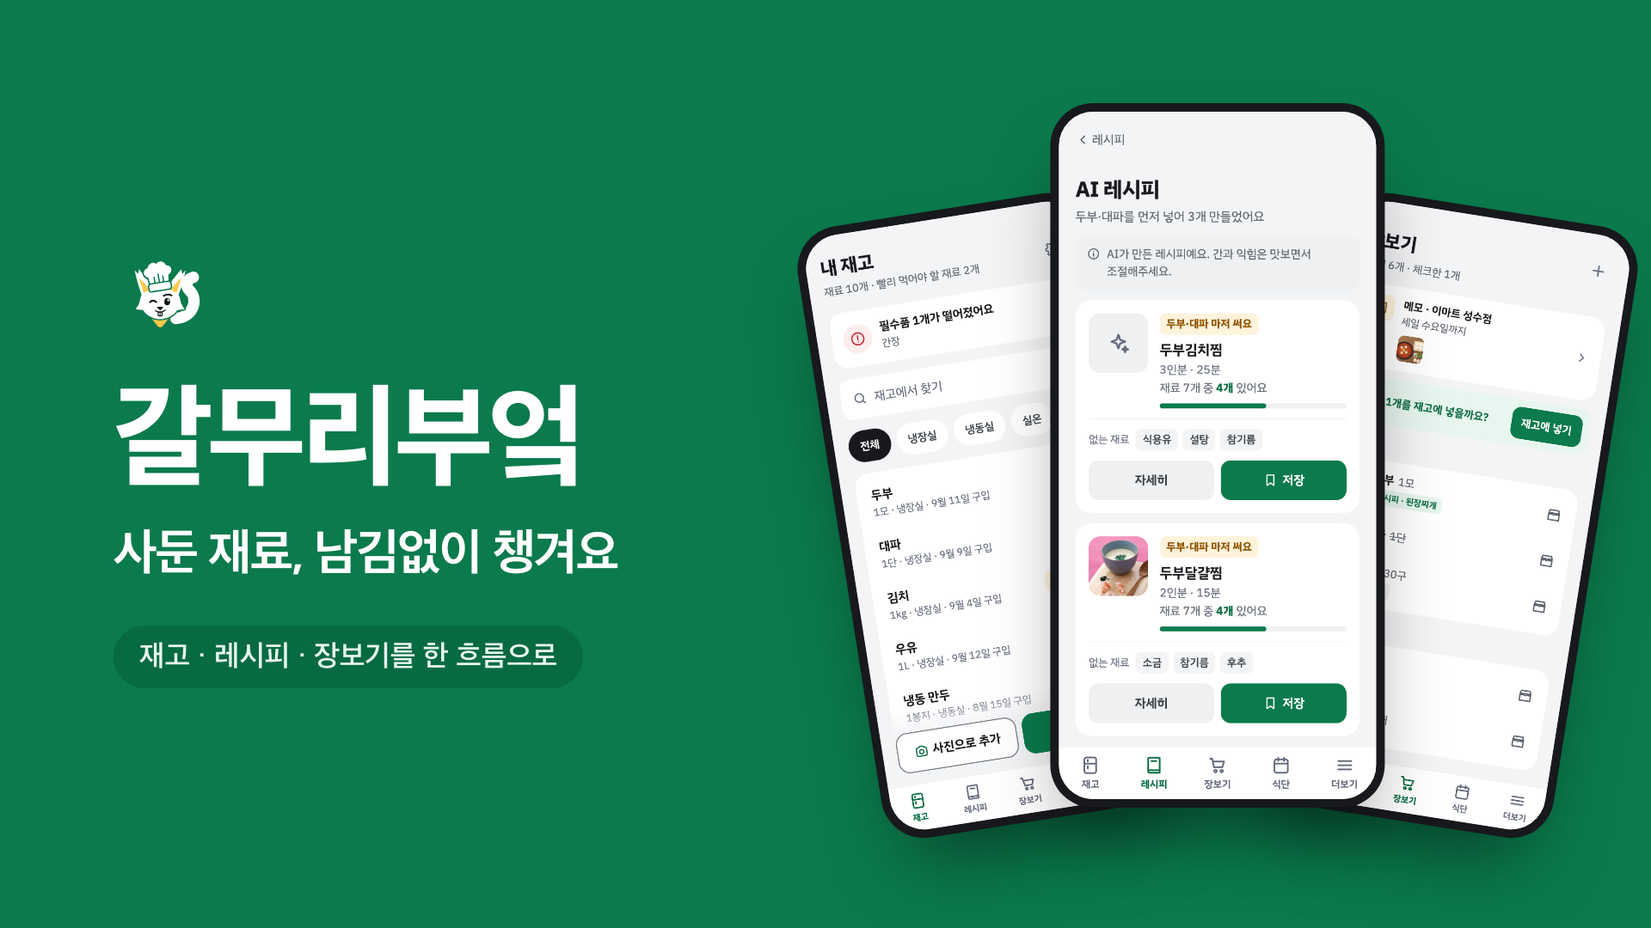
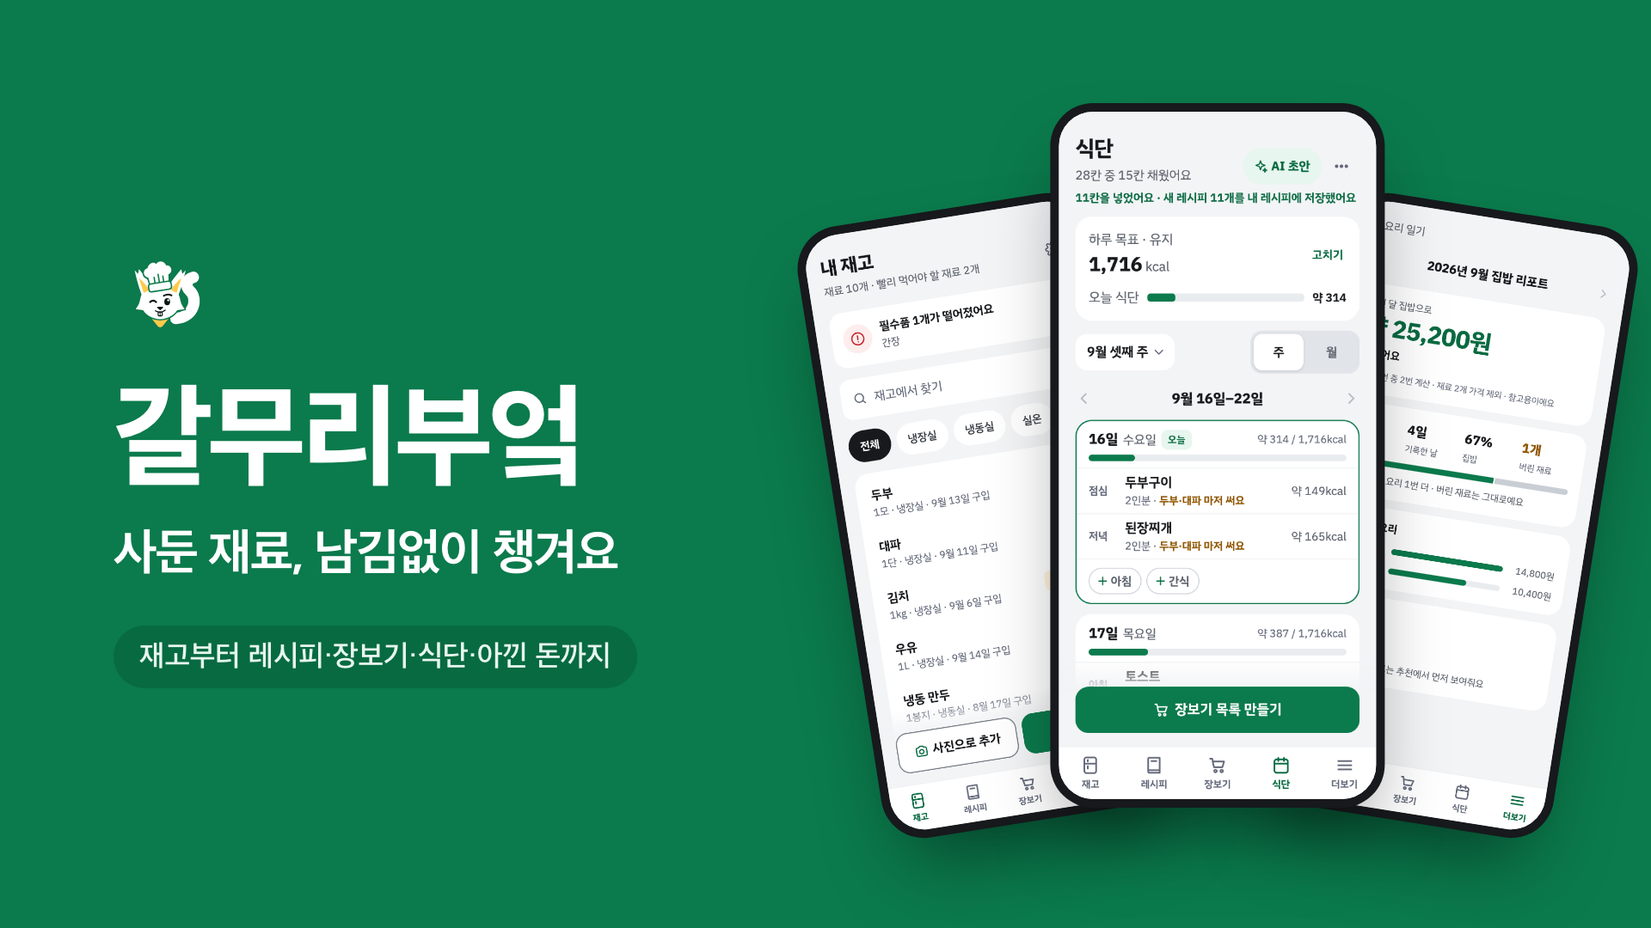
docs: 제출 폼 이미지를 대표+5장으로 다시 만들고 README·제출 문서의 스크린샷 목록 갱신
대표 이미지 문구를 `재고부터 레시피·장보기·식단·아낀 돈까지`로 바꾸고, 옛 03·04를 03-장보기로 합치고
05를 요리일기와 집밥리포트로, 04를 식단과 영양으로 바꿨다. README 표, 체크리스트 6절, 양식 답안 6절,
시연 시나리오의 스크린샷 이름을 맞췄다.

Claude-Session: https://claude.ai/code/session_01RZbUpMW9rbMSA6Pa7q1JrS

diff --git a/docs/submission/form/src/01-재고와-사진인식.html b/docs/submission/form/src/01-재고와-사진인식.html
@@ -4,11 +4,12 @@
 <span class="eyebrow">재고 관리</span>
 <h1>사진 한 장으로<br>재고 넣고,<br>곧 먹을 재료부터</h1>
 <ul class="points">
-<li><span class="n">1</span><div><b>영수증 사진이면 입력 끝</b><span>AI가 품목·수량·가격·구입일을 채워요</span></div></li>
-<li><span class="n">2</span><div><b>넣을 것만 체크해서 한 번에</b><span>틀린 건 펼쳐서 고친 뒤 재고로 옮겨요</span></div></li>
-<li><span class="n">3</span><div><b>임박한 재료가 위로</b><span>D-1, 구입 10일째처럼 먼저 먹을 걸 알려줘요</span></div></li>
+<li><span class="n">1</span><div><b>곧 먹을 재료가 맨 위로</b><span>D-1, 구입 10일째처럼 먼저 알려줘요</span></div></li>
+<li><span class="n">2</span><div><b>사진 여러 장을 한 번에 읽어요</b><span>냉장고·영수증을 같이 올리고 구입일만 골라요</span></div></li>
+<li><span class="n">3</span><div><b>예시 사진으로 바로 해봐요</b><span>로그인 없이도 영수증을 읽고 가격·날짜를 채워줘요</span></div></li>
 </ul></div>
-<div class="stage" style="gap:56px">
-<figure class="phone" style="--h:800px"><span class="n">1·2</span><div class="screen"><img class="" src="../../screenshots/03-scan-review.png" alt=""></div></figure>
-<figure class="phone" style="--h:800px"><span class="n">3</span><div class="screen"><img class="" src="../../screenshots/02-fridge.png" alt=""></div></figure>
+<div class="stage">
+<figure class="phone"><span class="n">1</span><div class="screen"><img class="" src="../../screenshots/02-fridge.png" alt=""></div></figure>
+<figure class="phone"><span class="n">2</span><div class="screen"><img class="" src="../../screenshots/03-scan-review.png" alt=""></div></figure>
+<figure class="phone"><span class="n">3</span><div class="screen"><img class="" src="../../screenshots/36-scan-sample-review.png" alt=""></div></figure>
 </div></div></body></html>

diff --git a/docs/submission/form/src/05-요리일기와-집밥리포트.html b/docs/submission/form/src/05-요리일기와-집밥리포트.html
@@ -1,0 +1,15 @@
+<!doctype html><html lang="ko"><head><meta charset="utf-8"><title>요리일기와 집밥리포트</title><link rel="stylesheet" href="slide.css"></head><body><div class="slide">
+<div class="copy">
+<div class="brand"><img src="../../../../frontend/public/mark.svg" alt="">갈무리부엌</div>
+<span class="eyebrow">요리 일기</span>
+<h1>요리할 때마다<br>아낀 돈이 쌓여요</h1>
+<ul class="points">
+<li><span class="n">1</span><div><b>요리했어요 한 번이면 재고에서 빼요</b><span>쓴 만큼 빼고, 잘못 눌렀으면 되돌려요</span></div></li>
+<li><span class="n">2</span><div><b>사 먹을 때보다 얼마 아꼈는지</b><span>재료비를 빼고 요리마다 계산해줘요</span></div></li>
+<li><span class="n">3</span><div><b>한 달 집밥 리포트</b><span>아낀 돈·요리 횟수·버린 재료를 모아 보여줘요</span></div></li>
+</ul></div>
+<div class="stage">
+<figure class="phone"><span class="n">1</span><div class="screen"><img class="" src="../../screenshots/29-cook-toast.png" alt=""><i class="ring" style="left:3%;top:79.8%;width:94%;height:11.2%"></i></div></figure>
+<figure class="phone"><span class="n">2</span><div class="screen"><img class="" src="../../screenshots/31-cook-diary-detail.png" alt=""></div></figure>
+<figure class="phone"><span class="n">3</span><div class="screen"><img class="" src="../../screenshots/32-cook-report.png" alt=""></div></figure>
+</div></div></body></html>

diff --git a/docs/submission/form/src/03-장보기.html b/docs/submission/form/src/03-장보기.html
@@ -1,0 +1,15 @@
+<!doctype html><html lang="ko"><head><meta charset="utf-8"><title>장보기</title><link rel="stylesheet" href="slide.css"></head><body><div class="slide">
+<div class="copy">
+<div class="brand"><img src="../../../../frontend/public/mark.svg" alt="">갈무리부엌</div>
+<span class="eyebrow">장보기</span>
+<h1>손메모는 사진으로,<br>마트 지하에서도 체크</h1>
+<ul class="points">
+<li><span class="n">1</span><div><b>살 것이 날짜별로 모여요</b><span>연결이 끊겨도 체크는 그대로 돼요</span></div></li>
+<li><span class="n">2</span><div><b>손메모 사진에서 살 것만 골라요</b><span>이미 목록에 있는 건 알려줘요</span></div></li>
+<li><span class="n">3</span><div><b>쇼핑몰 7곳에서 바로 찾아요</b><span>쿠팡·네이버 쇼핑·컬리 검색 결과로 가요</span></div></li>
+</ul></div>
+<div class="stage">
+<figure class="phone"><span class="n">1</span><div class="screen"><img class="" src="../../screenshots/15-offline-banner.png" alt=""><i class="ring" style="left:3.5%;top:12.4%;width:93%;height:6.4%"></i></div></figure>
+<figure class="phone"><span class="n">2</span><div class="screen"><img class="" src="../../screenshots/14-memo-scan-review.png" alt=""></div></figure>
+<figure class="phone"><span class="n">3</span><div class="screen"><img class="" src="../../screenshots/11-store-sheet.png" alt=""></div></figure>
+</div></div></body></html>

diff --git a/docs/submission/form/src/04-식단과-영양.html b/docs/submission/form/src/04-식단과-영양.html
@@ -1,0 +1,15 @@
+<!doctype html><html lang="ko"><head><meta charset="utf-8"><title>식단과 영양</title><link rel="stylesheet" href="slide.css"></head><body><div class="slide">
+<div class="copy">
+<div class="brand"><img src="../../../../frontend/public/mark.svg" alt="">갈무리부엌</div>
+<span class="eyebrow">식단·영양</span>
+<h1>한 주 식단 짜고,<br>칼로리까지 한눈에</h1>
+<ul class="points">
+<li><span class="n">1</span><div><b>하루 목표와 식단 칼로리를 같이</b><span>키·몸무게로 목표를 정하고 날마다 비교해요</span></div></li>
+<li><span class="n">2</span><div><b>AI가 빈 칸에 요리를 채워요</b><span>곧 먹을 재료부터 쓰고 1인분 kcal도 보여줘요</span></div></li>
+<li><span class="n">3</span><div><b>먹은 끼니는 달력에 남겨요</b><span>하루 kcal과 요리한 날을 한 달로 봐요</span></div></li>
+</ul></div>
+<div class="stage">
+<figure class="phone"><span class="n">1</span><div class="screen"><img class="" src="../../screenshots/21-meals-week.png" alt=""></div></figure>
+<figure class="phone"><span class="n">2</span><div class="screen"><img class="" src="../../screenshots/23-meal-ai-draft.png" alt=""></div></figure>
+<figure class="phone"><span class="n">3</span><div class="screen"><img class="" src="../../screenshots/33-food-log-calendar.png" alt=""></div></figure>
+</div></div></body></html>

diff --git a/docs/submission/form/src/00-대표이미지.html b/docs/submission/form/src/00-대표이미지.html
@@ -18,11 +18,11 @@
   <img class="logo" src="../../../../frontend/public/mark.svg" alt="">
   <div class="name">갈무리부엌</div>
   <div class="tag">사둔 재료, 남김없이 챙겨요</div>
-  <div class="flow">재고 · 레시피 · 장보기를 한 흐름으로</div>
+  <div class="flow">재고부터 레시피·장보기·식단·아낀 돈까지</div>
 </div>
 <div class="fan">
   <figure class="phone p1"><div class="screen"><img src="../../screenshots/02-fridge.png" alt=""></div></figure>
-  <figure class="phone p3"><div class="screen"><img src="../../screenshots/10-shopping-list.png" alt=""></div></figure>
-  <figure class="phone p2"><div class="screen"><img src="../../screenshots/05-ai-recipes.png" alt=""></div></figure>
+  <figure class="phone p3"><div class="screen"><img src="../../screenshots/32-cook-report.png" alt=""></div></figure>
+  <figure class="phone p2"><div class="screen"><img src="../../screenshots/21-meals-week.png" alt=""></div></figure>
 </div>
 </div></body></html>

diff --git a/docs/submission/04-제출-체크리스트.md b/docs/submission/04-제출-체크리스트.md
@@ -96,8 +96,8 @@ push 뒤 배포 주소에서 합니다. 0절 1번에서 이미 본 항목은 건
 |---|---|---|---|---|
 | [x] | 제품 페이지·케이스 스터디·제출 문서 01~05를 `f11ed6d` 기준으로 고치기 | Claude | 9/15 | `docs/site/`, `docs/submission/` |
 | [x] | 제품 페이지·01·04·05·README를 `b560ed4` 기준으로 다시 고치기(영양·먹은 기록 반영, 수익 구조 추가) | Claude | 9/15 | `docs/voting-readiness`. 케이스 스터디·02·03은 이번에 손대지 않았습니다. |
-| [ ] | 새 스크린샷 찍기(아래 목록) | 사용자 | 9/17 | push 뒤 체험 계정으로. 기존과 같은 1152×2496 |
-| [ ] | 스크린샷 교체, README 표, `form/` 16:9 이미지 다시 만들기 | Claude | 9/17 | 받은 파일은 같은 이름으로 바꾸고, 새 파일은 README 식단 절에 표로 넣습니다. |
+| [x] | 새 스크린샷 찍기(아래 목록) | Claude | 9/16 | 운영 주소 체험 계정으로. 기존과 같은 1152×2496(PC 컷만 2560×1600) |
+| [x] | 스크린샷 교체, README 표, `form/` 16:9 이미지 다시 만들기 | Claude | 9/16 | 바뀐 파일은 같은 이름으로 바꾸고, 새 파일은 README 재고·레시피·식단·다크·체험 방법 절에 표로 넣었습니다. |
 | [ ] | 시연 사진 준비: 영수증 1장, 냉장고 사진 1장, 손메모 1장 | 사용자 | 9/17 | [시연 시나리오](02-시연-시나리오.md) 준비물 |
 | [ ] | 3분 데모 리허설 2번(시간 재기) | 사용자 | 9/17 | 체험 계정은 같은 IP에서 1시간 30개 |
 | [ ] | 1분 소개 영상 녹화·자막 | 사용자 | 9/17 | [콘티](02-시연-시나리오.md#1분-소개-영상-콘티) |
@@ -107,37 +107,50 @@ push 뒤 배포 주소에서 합니다. 0절 1번에서 이미 본 항목은 건
 
 ### 스크린샷: 낡은 것과 새로 필요한 것
 
-스크린샷은 사용자가 push 뒤 폰에서 찍습니다. 기존 파일은 9/14 16:11(대부분)과 20:35~20:38(실제 AI 결과·로그인·영상)에 찍었습니다.
-아래 표에 없는 파일은 그대로 써도 됩니다: `00-splash`, `04-recommend`, `05-ai-recipes`, `05b-ai-recipes-full`, `06-recipe-detail`, `07-link-import`, `07a-link-import-sheet`, `09-seasoning-calc`, `10-shopping-list`, `10b-shopping-list-full`, `11-store-sheet`, `13-memo-page`, `14-memo-scan-review`, `15-offline-banner`, `18-fridge-dark`, `19-shopping-dark`, `20-recipe-detail-dark`, `form/02`·`form/04`·`form/05`.
+9/16 밤, 운영 주소(https://galmuri-kitchen.onrender.com, main `eed1117` 배포본)의 체험 계정으로 Claude가 찍었습니다. Playwright 크롬, 384×832 화면 @3x·터치, 한국어·서울 시간(PC 컷만 1280×800 @2x·마우스)입니다.
+실제 AI는 3번만 불렀습니다: 내 사진 2장 인식(`ereceipt.jpg`·`fridge.jpg`를 앨범으로), 예시 사진 읽기(모바일 영수증), AI 식단 초안. 체험 로그인은 2번(본 화면, 다크 식단) 썼습니다. 사진이 붙는 저장은 하지 않았고, 요리했어요는 저장 뒤 바로 되돌려 재고를 원래대로 돌렸습니다.
+그대로 쓰는 파일: `00-splash`, `04-recommend`, `05-ai-recipes`, `05b-ai-recipes-full`, `06-recipe-detail`, `07-link-import`, `07a-link-import-sheet`, `09-seasoning-calc`, `10-shopping-list`, `10b-shopping-list-full`, `11-store-sheet`, `13-memo-page`, `14-memo-scan-review`, `15-offline-banner`, `18-fridge-dark`, `19-shopping-dark`, `20-recipe-detail-dark`, `form/02`.
 
-**다시 찍기(낡음)**
+**다시 찍은 것**
 
-| 파일 | 달라진 점 | 언제 |
+| 파일 | 지금 화면 | 결과 |
 |---|---|---|
-| `01-login.png` | 카카오·네이버·구글 로고와 지난번 로그인 표시가 없음(`e86ab37`, `552750c`) | 지금도 가능 |
-| `03-scan-review.png` | 사진 여러 장 인식, 구입일 칩·재료별 구입일·`기억 안 나요`가 없음(`40d2c9e`) | push 뒤 |
-| `16-more.png` | 이용약관·개인정보처리방침 링크, 데이터 출처 줄이 생기기 전 화면(`33ebc57`, `a70dc55`) | 지금도 가능 |
-| `17-export-sheet.png` | 식단 줄이 없음(`965e974`) | push 뒤 |
-| `12-stock-in.png` | 재고에 넣기 하단 가림을 고치기 전(`a70dc55`). 달라 보이면 교체 | 확인 후 |
-| `08-videos.png` | 채널 칩 짧은 이름 전(`d63066a`). 체험 계정도 이제 받아 둔 실제 영상이 보임(`e773533`) | 확인 후 |
-| `02-fridge.png` | 목록 화면은 같음. `사진으로 추가` 시트를 보여주는 컷이 필요하면 카메라/앨범·여러 장 화면으로 새로 | 확인 후 |
-| `form/00-대표이미지.png`, `form/00-대표이미지-1200x630.png` | 문구 `재고 · 레시피 · 장보기를 한 흐름으로`에 식단이 없고, 식단 화면이 없음 | 새 식단 스크린샷 뒤 |
-| `form/01-재고와-사진인식.png` | `03-scan-review`가 바뀌면 함께 | push 뒤 |
-| `form/03-장보기와-오프라인.png` | 20:38 재생성에서 빠진 파일(16:40). 원본 스크린샷이 그대로라 내용은 같을 것이지만 한 번 확인 | 확인 후 |
+| `01-login.png` | 카카오·네이버·구글 로고, 미리보기 카드, `지난번에 이걸로 로그인했어요` | 교체 |
+| `02-fridge.png` | 목록은 같고 날짜만 새로(체험 안내 카드는 닫은 뒤) | 교체 |
+| `03-scan-review.png` | 내 사진 2장(영수증·냉장고)을 한 번에 읽은 결과. 구입일 칩 `1주 전`, 계란만 `어제 구입`, `기억 안 나요` | 교체 |
+| `08-videos.png` | 여러 채널 영상이 섞이고 채널 칩이 짧은 이름 | 교체 |
+| `12-stock-in.png` | 줄 설명이 `장보기에 적어 둔 곳`으로 바뀜, 수세미(생활용품) `산 것으로만 옮겨요`. 긴 캡처 대신 1152×2496 | 교체 |
+| `16-more.png` | 아래쪽 화면: 하루 칼로리 목표, AI 사용량(오늘 쓴 횟수), 데이터 출처 줄, 이용약관·개인정보처리방침 링크 | 교체 |
+| `17-export-sheet.png` | 식단·먹은 기록·요리 일기 줄 | 교체 |
+| `form/00-대표이미지.png`, `form/00-대표이미지-1200x630.png` | 문구 `재고부터 레시피·장보기·식단·아낀 돈까지`, 폰 02·21(가운데)·32 | 다시 만듦 |
+| `form/01-재고와-사진인식.png` | 폰 02·03·36, 예시 사진으로 해보기 | 다시 만듦 |
+| `form/03-장보기와-오프라인.png`, `form/04-메모사진과-쇼핑몰.png` | `form/03-장보기.png` 한 장으로 합침(폰 15·14·11) | 지우고 새로 |
+| `form/05-레시피-가져오기와-양념.png` | `form/05-요리일기와-집밥리포트.png`(폰 29·31·32)로 바꿈 | 지우고 새로 |
 
-**새로 필요**
+**새로 찍은 것**
 
-| 제안 파일 이름 | 화면 | 쓰는 곳 |
+| 파일 | 화면 | 쓰는 곳 |
 |---|---|---|
-| `21-meals-week.png` | 식단 주 보기(체험 계정 예시 식단) | README 식단 절, 02 시연 2:40, 대표 이미지 |
-| `22-meals-month.png` | 식단 월 보기 | README |
-| `23-meal-ai-draft.png` | AI 식단 초안 결과(칸마다 후보·kcal·체크) | README, 05 스크린샷 |
-| `24-meal-shopping.png` | 식단으로 장보기 목록 만들기(모자란 만큼·살 날) | README, 02 시연 |
-| `25-scan-multi.png` | 사진 여러 장을 고른 뒤 인식 확인 화면(구입일 칩) | `03-scan-review` 대신 또는 함께 |
-| `26-recipe-photo-import.png` | 레시피 추가 시트(링크·글·사진) 또는 사진 가져오기 확인 화면 | README 레시피 절 |
-| `27-meals-dark.png` | 다크 테마 식단 주 보기 | README 다크 표 |
+| `21-meals-week.png` | 식단 주 보기: 하루 목표 1,716kcal, 날마다 합계 막대, AI 초안을 넣은 뒤 알림 줄 | README 식단, form/00·04 |
+| `22-meals-month.png` | 식단 월 보기 | README 식단 |
+| `23-meal-ai-draft.png` | AI 식단 초안: 칸마다 후보·1인분 kcal·체크·다른 걸로 | README 식단, form/04 |
+| `24-meal-shopping.png` | 식단으로 장보기 목록 만들기: 모자란 만큼·살 날 | README 식단 |
+| `26-recipe-add-sheet.png` | 레시피 추가 시트: 링크·글·사진·직접 쓰기 | README 레시피 |
+| `27-meals-dark.png` | 다크 테마 식단 주 보기(새 체험 계정) | README 다크 표 |
+| `28-cook-sheet.png` | 김치찌개 요리했어요 시트 | README 식단 |
+| `29-cook-toast.png` | 저장 뒤 되돌리기 알림: 뺀 재료·아낀 돈 | README 식단, form/05 |
+| `30-cook-diary.png` | 요리 일기 목록 | README 식단 |
+| `31-cook-diary-detail.png` | 요리 일기 상세: 아낀 돈 내역 | README 식단, form/05 |
+| `32-cook-report.png` | 집밥 리포트: 9월 약 25,200원 | README 식단, form/00·05 |
+| `33-food-log-calendar.png` | 먹은 기록 달력: 하루 kcal, `요` 표시 | README 식단, form/04 |
+| `34-demo-guide.png` | 재고 첫 방문 체험 안내 카드 | README 체험 방법 |
+| `35-scan-sample.png` | 사진으로 추가 시트: 예시 사진 | README 재고 |
+| `36-scan-sample-review.png` | 예시 영수증을 읽은 결과: 사진 띠·영수증 날짜·가격 | README 재고, form/01 |
+| `37-nutrition.png` | 김치찌개 1인분 영양 카드(AI 없이 저장된 값으로 계산) | README 레시피 |
+| `38-pc-home.png` | PC 화면: 왼쪽 소개 + 재고(2560×1600) | README 체험 방법 |
 
-`form/` 5장은 지금 식단이 한 장도 없습니다. `05-레시피-가져오기와-양념` 대신 `05-식단과-장보기`(21·23·24)를 넣는 안을 제안합니다. 05 문서 6절에 같은 내용을 적었습니다.
+`25-scan-multi`는 `03-scan-review`가 여러 장 인식을 보여 줘서 따로 만들지 않았고, `26-recipe-photo-import`는 `26-recipe-add-sheet`로 찍었습니다.
+`form/`은 대표 이미지와 5장입니다: 01 재고와 사진인식, 02 재고로 레시피(그대로), 03 장보기, 04 식단과 영양, 05 요리일기와 집밥리포트. 05 문서 6절 순서와 같습니다.
 
 ## 7. 출시 전 확인(제출과 별개)
 

diff --git a/docs/submission/02-시연-시나리오.md b/docs/submission/02-시연-시나리오.md
@@ -1,7 +1,7 @@
 # 갈무리부엌 시연 시나리오
 
 라이브 데모 3분과 소개 영상 1분의 흐름입니다. 모든 단계는 https://galmuri-kitchen.onrender.com 의 체험 계정 기준입니다.
-화면 파일 이름은 `docs/submission/screenshots/`의 스크린샷과 같습니다. `21-`부터는 9/15 저녁 push 뒤 새로 찍을 파일입니다([체크리스트 6절](04-제출-체크리스트.md#스크린샷-낡은-것과-새로-필요한-것)).
+화면 파일 이름은 `docs/submission/screenshots/`의 스크린샷과 같습니다. `21-`부터는 9/16에 운영 체험 계정으로 새로 찍은 파일입니다([체크리스트 6절](04-제출-체크리스트.md#스크린샷-낡은-것과-새로-필요한-것)).
 
 ## 배포 상태와 시나리오
 
@@ -60,8 +60,8 @@
 | 내보내기 | 더보기 → **데이터 내보내기** | "내 데이터는 CSV로 가져갈 수 있습니다. 엑셀 수식으로 읽히는 칸은 막아 둡니다." | `17-export-sheet` |
 | 다크 테마 | 더보기 → **화면 테마** → 어둡게 | "어두운 화면도 글자 대비 기준을 맞췄습니다." | `18-fridge-dark` · `19-shopping-dark` · `20-recipe-detail-dark` |
 | AI 식단 초안 | 식단 탭 → **AI 식단 초안** → 끼니·목표 kcal 입력 → **만들기**(1분쯤) → 후보 확인 후 체크한 칸만 **넣기** | "빈 칸을 AI에게 맡기면 칸마다 후보를 두 개씩, 1인분 kcal 추정과 함께 보여 줍니다. 체크한 칸만 넣습니다." AI 레시피 한도 1번을 씁니다. | `23-meal-ai-draft` |
-| AI 한도 | 하단 **더보기** | "AI 호출은 사용자별 하루 한도와 체험 계정 전체 예산으로 막아 두었습니다. 오늘 쓴 횟수는 여기서 봅니다." | `16-more`(다시 찍기) |
-| 사진 여러 장 | 재고 → **사진으로 추가** → 앨범에서 영수증·냉장고 사진 2장 (저녁 push 필요) | "사진 여러 장을 한 번에 읽어도 한도는 한 번만 셉니다. 겹친 재료는 합칩니다." | `25-scan-multi` |
+| AI 한도 | 하단 **더보기** | "AI 호출은 사용자별 하루 한도와 체험 계정 전체 예산으로 막아 두었습니다. 오늘 쓴 횟수는 여기서 봅니다." | `16-more` |
+| 사진 여러 장 | 재고 → **사진으로 추가** → 앨범에서 영수증·냉장고 사진 2장 (저녁 push 필요) | "사진 여러 장을 한 번에 읽어도 한도는 한 번만 셉니다. 겹친 재료는 합칩니다." | `03-scan-review` |
 
 ### 막혔을 때
 

diff --git a/docs/submission/05-제출-양식-답안.md b/docs/submission/05-제출-양식-답안.md
@@ -146,19 +146,19 @@ https://galmuri-kitchen.onrender.com
 
 ## 6. 이미지 등록
 
-대표 이미지: `docs/submission/form/00-대표이미지.png` (별도 제작)
+대표 이미지: `docs/submission/form/00-대표이미지.png` (별도 제작, 문구 `재고부터 레시피·장보기·식단·아낀 돈까지`, 재고·식단·집밥 리포트 화면)
 
 스크린샷 업로드 순서(최대 5장, 16:9, `docs/submission/form/`에 별도 제작):
 
 | 순서 | 파일 | 보여 줄 것 |
 |---|---|---|
-| 1 | `01-재고와-사진인식.png` | 임박 순 재고 화면과 영수증 사진 인식 확인 화면 |
+| 1 | `01-재고와-사진인식.png` | 임박 순 재고, 사진 2장을 한 번에 읽은 확인 화면(구입일 칩), 예시 영수증 사진 읽기 |
 | 2 | `02-재고로-레시피.png` | 재고와 겹치는 추천 레시피와 임박 재료를 먼저 쓰는 AI 레시피 3개 |
-| 3 | `03-장보기와-오프라인.png` | 없는 재료를 담은 장보기 목록, 인터넷 없이 체크, 산 것 재고에 넣기 |
-| 4 | `04-메모사진과-쇼핑몰.png` | 손메모 사진에서 뽑은 살 것과 쇼핑몰 검색 링크 |
-| 5 | `05-레시피-가져오기와-양념.png` | 링크로 가져온 레시피 초안과 숟가락 단위 양념 비율 계산 |
+| 3 | `03-장보기.png` | 인터넷 없이 체크하는 장보기 목록, 손메모 사진에서 뽑은 살 것, 쇼핑몰 검색 링크 |
+| 4 | `04-식단과-영양.png` | 하루 목표 kcal과 식단 주 보기, 1인분 kcal이 붙은 AI 식단 초안, 먹은 기록 달력 |
+| 5 | `05-요리일기와-집밥리포트.png` | 요리했어요 뒤 되돌리기 알림, 요리마다 아낀 돈, 한 달 집밥 리포트 |
 
-지금 5장과 대표 이미지에는 식단 화면이 없습니다(대표 이미지 문구도 `재고 · 레시피 · 장보기를 한 흐름으로`). 식단 스크린샷을 찍으면 5번을 `05-식단과-장보기.png`(식단 주 보기·AI 초안·식단으로 장보기)로 바꾸고 대표 이미지 문구에 식단을 넣는 안을 제안합니다. 목록은 [체크리스트 6절](04-제출-체크리스트.md#스크린샷-낡은-것과-새로-필요한-것)에 있습니다.
+9/16에 운영 주소 체험 계정 화면으로 다시 만들었습니다. 파일 목록은 [체크리스트 6절](04-제출-체크리스트.md#스크린샷-낡은-것과-새로-필요한-것)에 있습니다.
 
 ## 7. 라이선스·이용 조건 점검표
 
